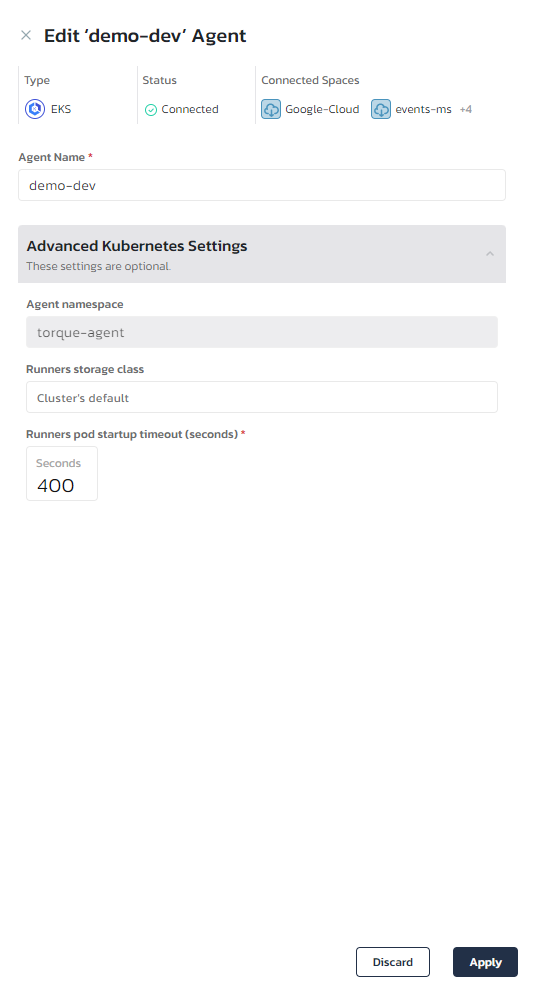
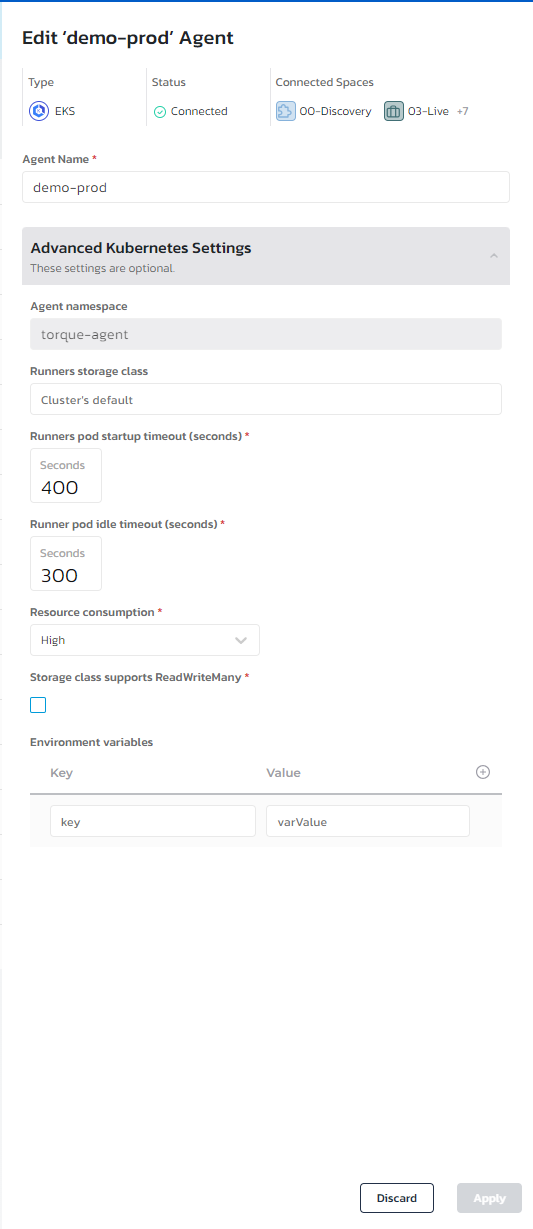
advanced-settings-2

diff --git a/docs/torque-agent/advanced-settings.md b/docs/torque-agent/advanced-settings.md
@@ -17,7 +17,7 @@ In addition, you can retrieve the namespace where the Torque agent is running (b
 
 ## Advanced Settings
 
-- Storage Class is a K8s resource which allows you to request to create persistent volumes with certain properties. The storage class describes the properties then Torque 
+- **Storage Class** is a K8s resource which allows you to request to create persistent volumes with certain properties. The storage class describes the properties then Torque 
 will request for the runner to create storage according to these properties. By default it is set to "Cluster's default" which means the Torque runners will request the storage properties according to what is defined as the default storage class in the cluster. If you change it to other value, Torque runners will request the storage class based on the new value.
 
 :::note
@@ -26,6 +26,18 @@ For reclaimPolicy (delete|retain) - we recommend using "delete" (extra care shou
 
 Learn more [here](https://kubernetes.io/docs/concepts/storage/storage-classes/)
 
-- Runner Startup Timeout - the time Torque will wait for a runner pod to be provisioned. If you cluster is slow in creating pods/nodes in autoscaling, you may need to increase it. Be careful of setting too large timeouts, because if there is an inherent problem in the POD the error will suffice later. 
+- **Runners pod startup timeout (seconds)** - The time Torque will wait for a runner pod to be provisioned. If you cluster is slow in creating pods/nodes in autoscaling, you may need to increase it. Be careful of setting too large timeouts, because if there is an inherent problem in the POD the error will suffice later. 
 
+- **Runner pod idle timeout (seconds)** - The time Torque will wait before terminating and idle Runner. Any non-negarive value is accepted. As runners are allocated from a shared pool, setting the timeout to higher values will optimize the current operation which already "owns" the runner, but will decrease the average pool size so the next operations may need to wait longer before they get a runner. Higher values can also be used for debugging purposes, as it allows more time to connect to the runner, look at its logs and debug issues.
+
+- **Resource consumption** - The level of resources consumption (Memory + CPU) that will be requested by the Runners. The values are “Low”, “Medium”, “High”. The actual eventual values of the resources are calculated according to this field. Higher values ensure better performance of the POD, but be careful not to set it too high as it may be impposible to schedule it given the cluster's resources.
+The value may be set for low for dev&test use cases, and high for production environments.
+
+- **Storage class supports ReadWriteMany** - Check this checkbox if the storage class supports ReadWriteMany capability. Only storage classes which support this capability can share resources. If it is false there will not be sharing and each operation will spawn a new runner pod. Torque cannot query the cluster to understand if it does or does not have this capability so we rely on your information. If you check this checkbox, you must also set the storage_class_name and not leave it empty. Even if the default storage class supports ReadWriteMany, please state the name explicity.  
+
+- **Environment variables** - key-values pairs of environment variables to set on the runner pod. This can be useful for configuring global configuration such as HTTP_PROXY. It will affect all runners in the cluster.
+
+:::note
+Changes to the configuration only takes effect on new environments. Existing environments will keep the values configured at the time of the launch.
+:::
 
